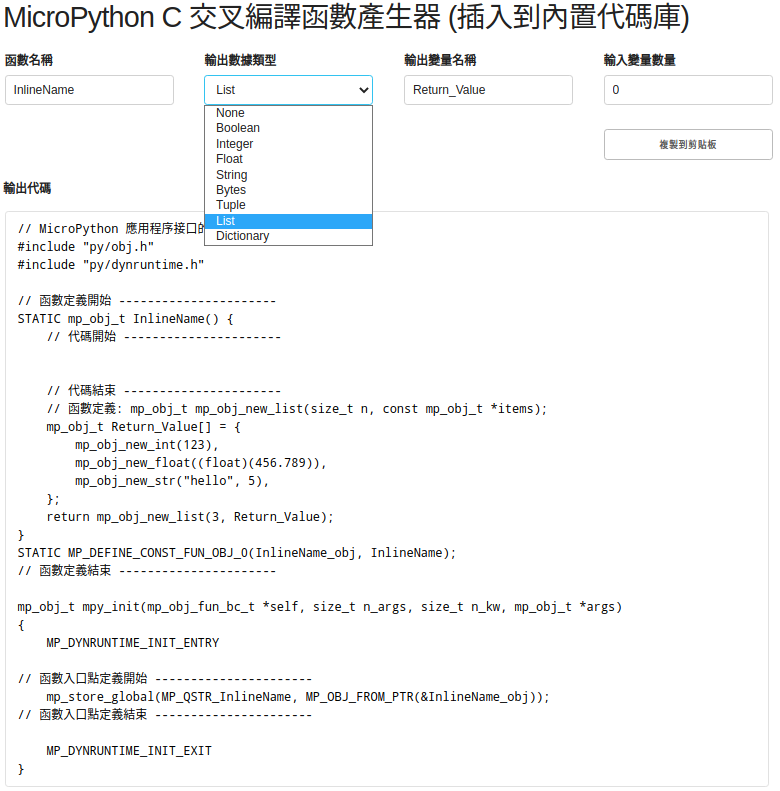
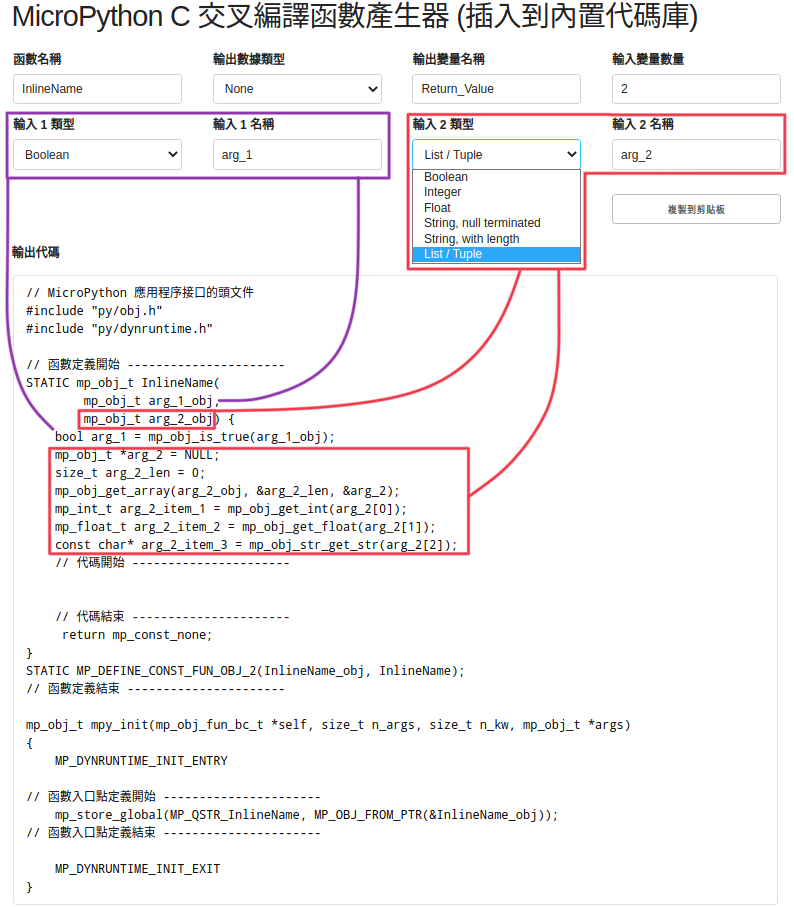
first commit

diff --git a/_posts/2021-12-12-mpy.md b/_posts/2021-12-12-mpy.md
@@ -27,11 +27,14 @@ date: 2021-12-12 12:00:00
 
 ![Alt cstub](../assets/img/mpy/mpys_i.png)
 
+<font color="#E520FF">紫色</font>方格是第一個輸入參數，為布林值    
+<font color="#FF1000">紅色</font>方格是第二個輸入參數，為數組或元組  
 
 ### 返回值選擇頁面
 
 ![Alt cstub](../assets/img/mpy/mpys_o.png)
 
+<font color="#FF1000">紅色</font>方格內為返回值，為數組或元組  
 
 ### 實現交叉編譯器功能的示例
 
